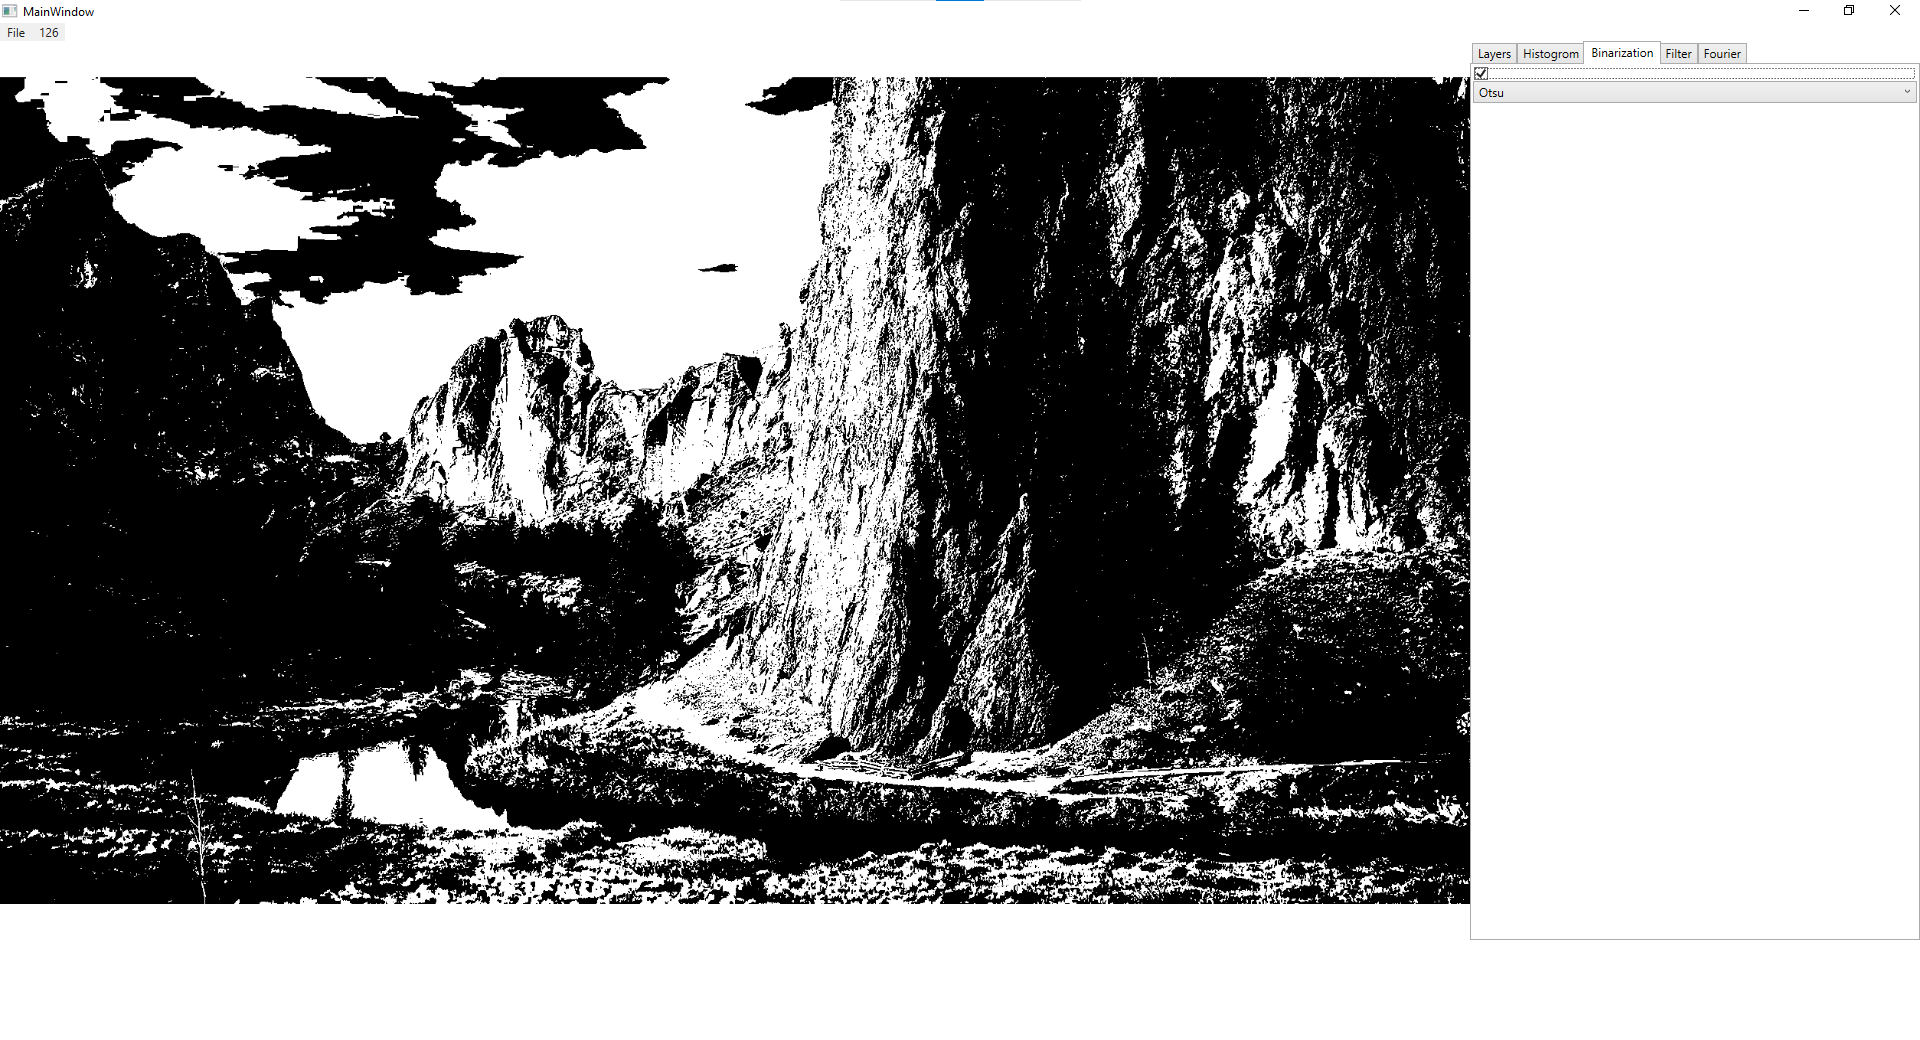
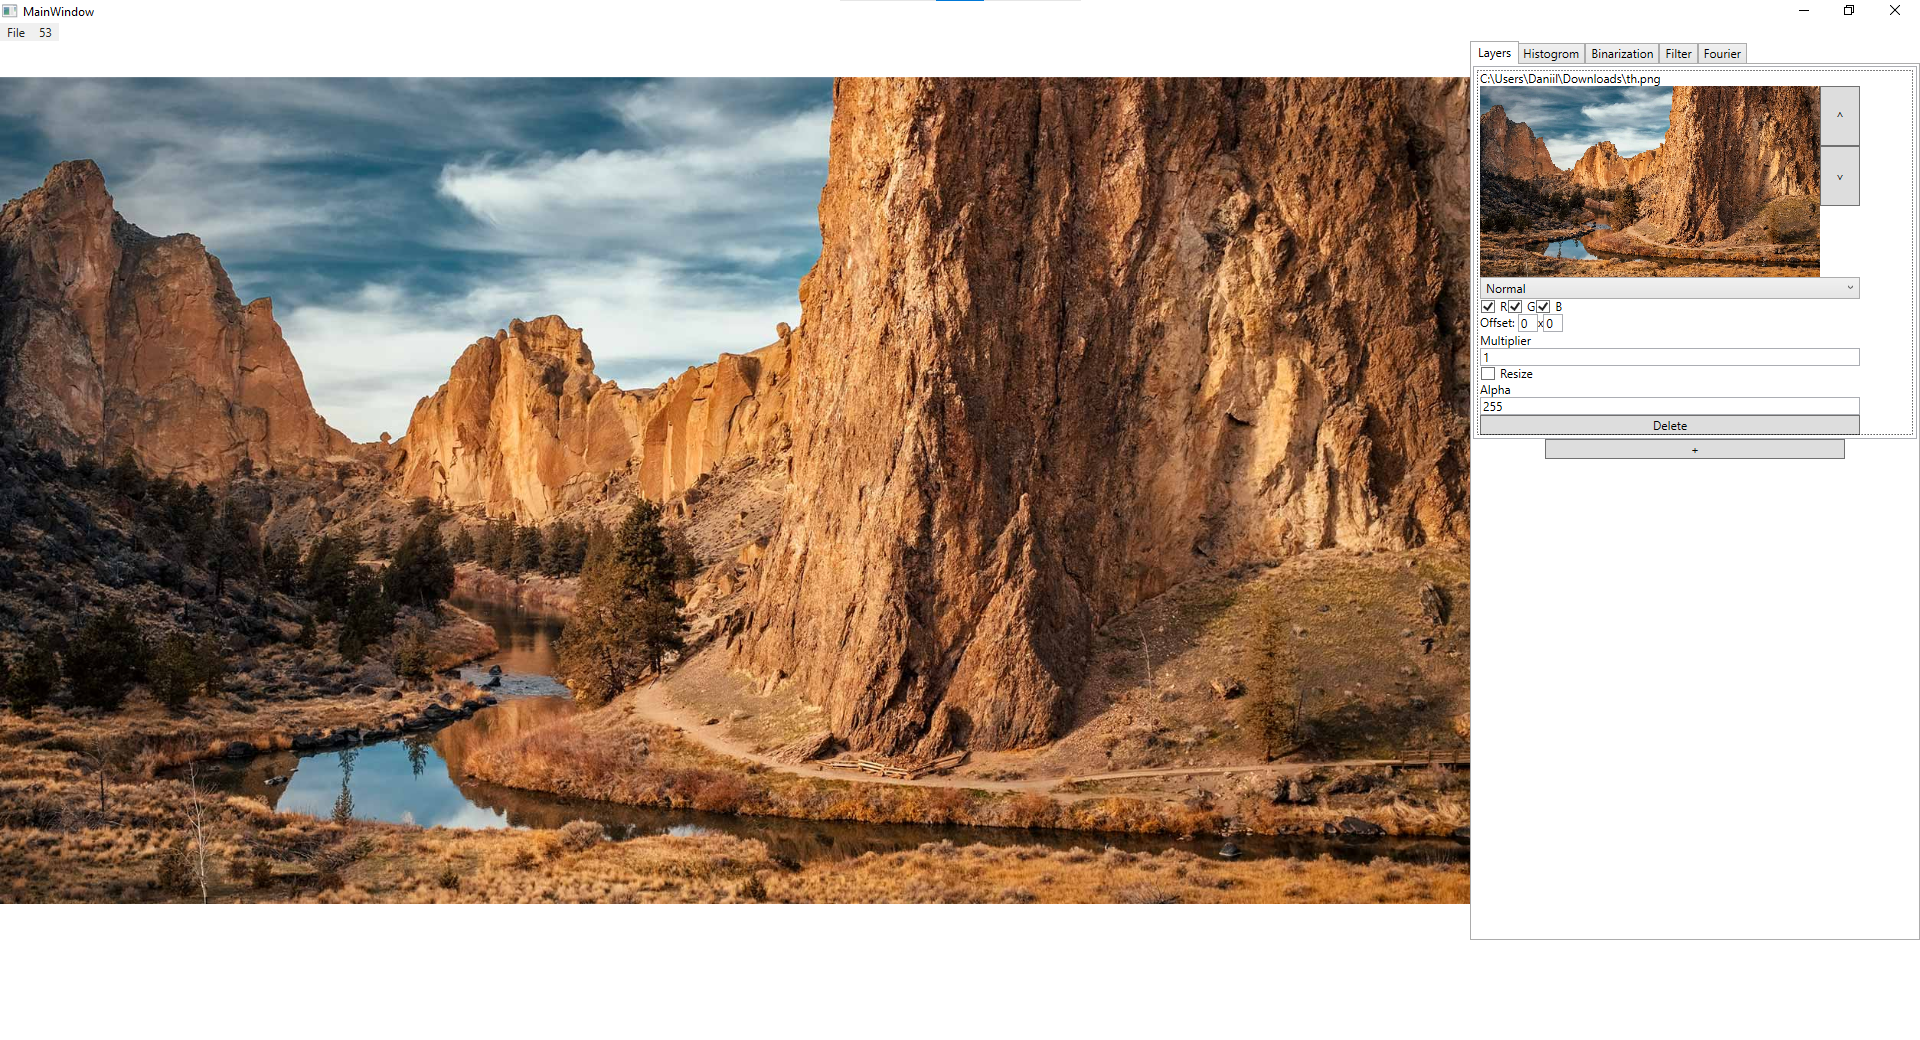
changed screenshot in README.md

diff --git a/README.MD b/README.MD
@@ -73,7 +73,7 @@
 
 | Главное окно | Бинаризация (Otsu) | Преобразование Фурье |
 |--------------|--------------------|-----------------------|
-| ![alt text](Screenshots/main.png) | ![Бинаризация](Screenshots/binarization.png)| ![Фурье](Screenshots/fourier.png) |
+| ![Главное окно](Screenshots/main.png)| ![Бинаризация](Screenshots/binarization.png)| ![Фурье](Screenshots/fourier.png) |
 *Замените на свои реальные скриншоты*
 
 ---
@@ -95,3 +95,42 @@ git clone https://github.com/Popodada3221/SCOI.git
 3. Соберите проект (Build → Build Solution).
 
 4. Запустите приложение (F5).
+
+### Как использовать
+
+1. Загрузите изображение через меню Layers.
+
+2. Перейдите на вкладку Histogram для анализа яркостного распределения.
+
+3. Выберите Binarization и примените один из алгоритмов (например, Otsu).
+
+4. В разделе Filter удалите шум с помощью медианной фильтрации.
+
+5. Откройте Fourier, чтобы увидеть частотный спектр и применить фильтрацию в частотной области (например, для удаления периодических помех).
+
+## Чему я научился в ходе работы
+- Реализовывать алгоритмы цифровой обработки изображений с нуля на C#.
+
+- Строить графический интерфейс на WPF и связывать его с логикой обработки.
+
+- Работать с пиксельными данными (WriteableBitmap, unsafe-код).
+
+- Применять дискретное преобразование Фурье для анализа и фильтрации изображений.
+
+- Организовывать проект в Git и вести документацию.
+
+## Планы по доработке (если будет время)
+- Добавить поддержку цветных изображений (обработка по каналам RGB)
+
+- Реализовать историю операций (Undo/Redo)
+
+- Добавить больше фильтров (Собель, Превитт, Лаплас)
+
+- Сделать пакетную обработку изображений
+
+## Контакты
+Автор: Даниил (Popodada3221)
+
+[GitHub](https://github.com/Popodada3221)
+
+Telegram: @Daniil_bck
